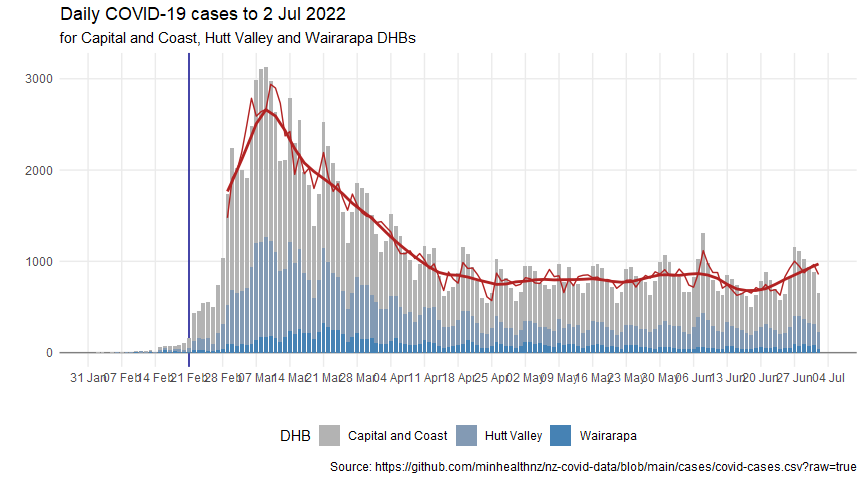
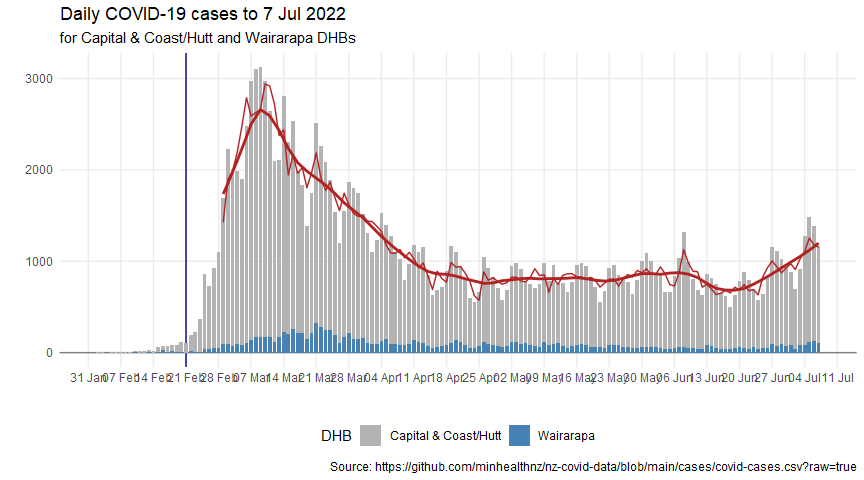
update for 20220708; change Wellington DHB names

diff --git a/covid-post-peak-analysis.md b/covid-post-peak-analysis.md
@@ -9,7 +9,8 @@ Focusing on trends and seasonality after the early 2022 Omicron peak.
 
 ``` r
 case_data_url <- "https://github.com/minhealthnz/nz-covid-data/blob/main/cases/covid-cases.csv?raw=true"
-dhb_names <- c("Capital and Coast", "Hutt Valley", "Wairarapa")
+# dhb_names <- c("Capital and Coast", "Hutt Valley", "Wairarapa")
+dhb_names <- c("Capital & Coast/Hutt", "Wairarapa") # DHB name changes
 dhb_names_label <- glue_collapse(dhb_names, sep = ", ", last = " and ")
 
 nice_date_format <- function(input_date) {
@@ -30,7 +31,7 @@ cases_df <- read_csv(case_data_url) %>%
 
     ## Warning: One or more parsing issues, see `problems()` for details
 
-    ## Rows: 1357862 Columns: 7
+    ## Rows: 1412642 Columns: 7
 
     ## -- Column specification --------------------------------------------------------
     ## Delimiter: ","
@@ -49,7 +50,7 @@ cases_by_dhb_df <- cases_df %>%
   count(report_date, dhb, case_status)
 ```
 
-## Wellington figures up to 2 Jul 2022
+## Wellington figures up to 7 Jul 2022
 
 Including Hutt and Wairarapa as well as CCDHB.
 
@@ -168,7 +169,7 @@ maxima <- dhb_cases_after_transform_stl_df %>%
 
 Looking at raw case numbers, the peak on 9 Mar 2022 was about 6.2 times the lowest recent value.
 
-But when adjusting for the weekly pattern, it was 5.2 times the lowest recent adjusted value, and the trend was about 3.9 times the lowest recent trend line.
+But when adjusting for the weekly pattern, it was 5.1 times the lowest recent adjusted value, and the trend was about 3.9 times the lowest recent trend line.
 
 While the trend might be over-smoothed, the peak coincinded with the strong weekly pattern, suggesting that the apparent difference between the peak and now was exaggerated by weekly differences in reporting.
 
